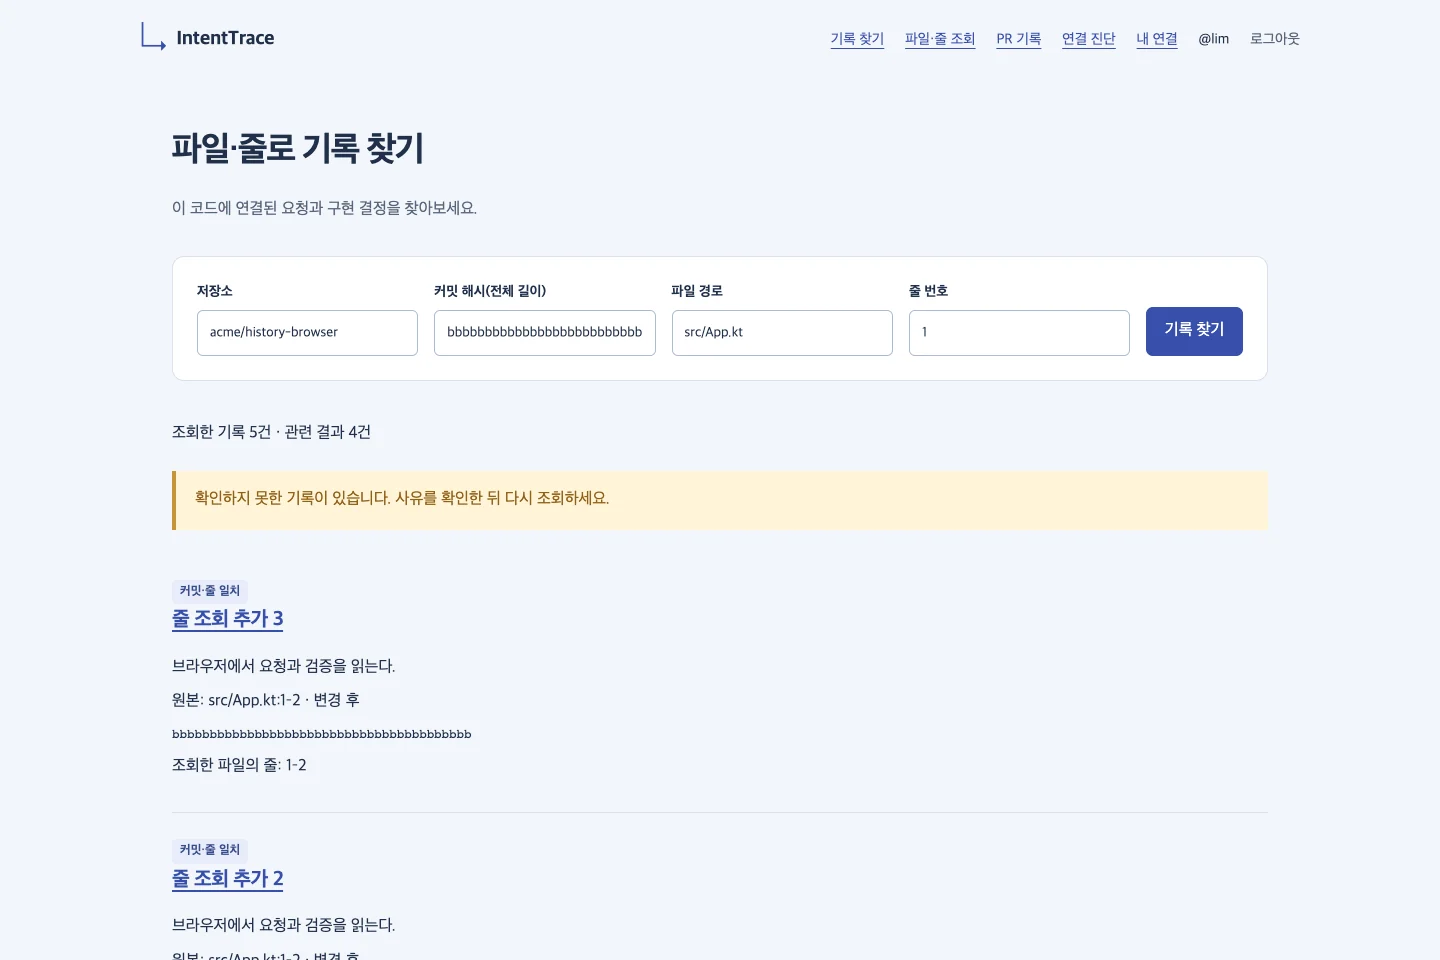
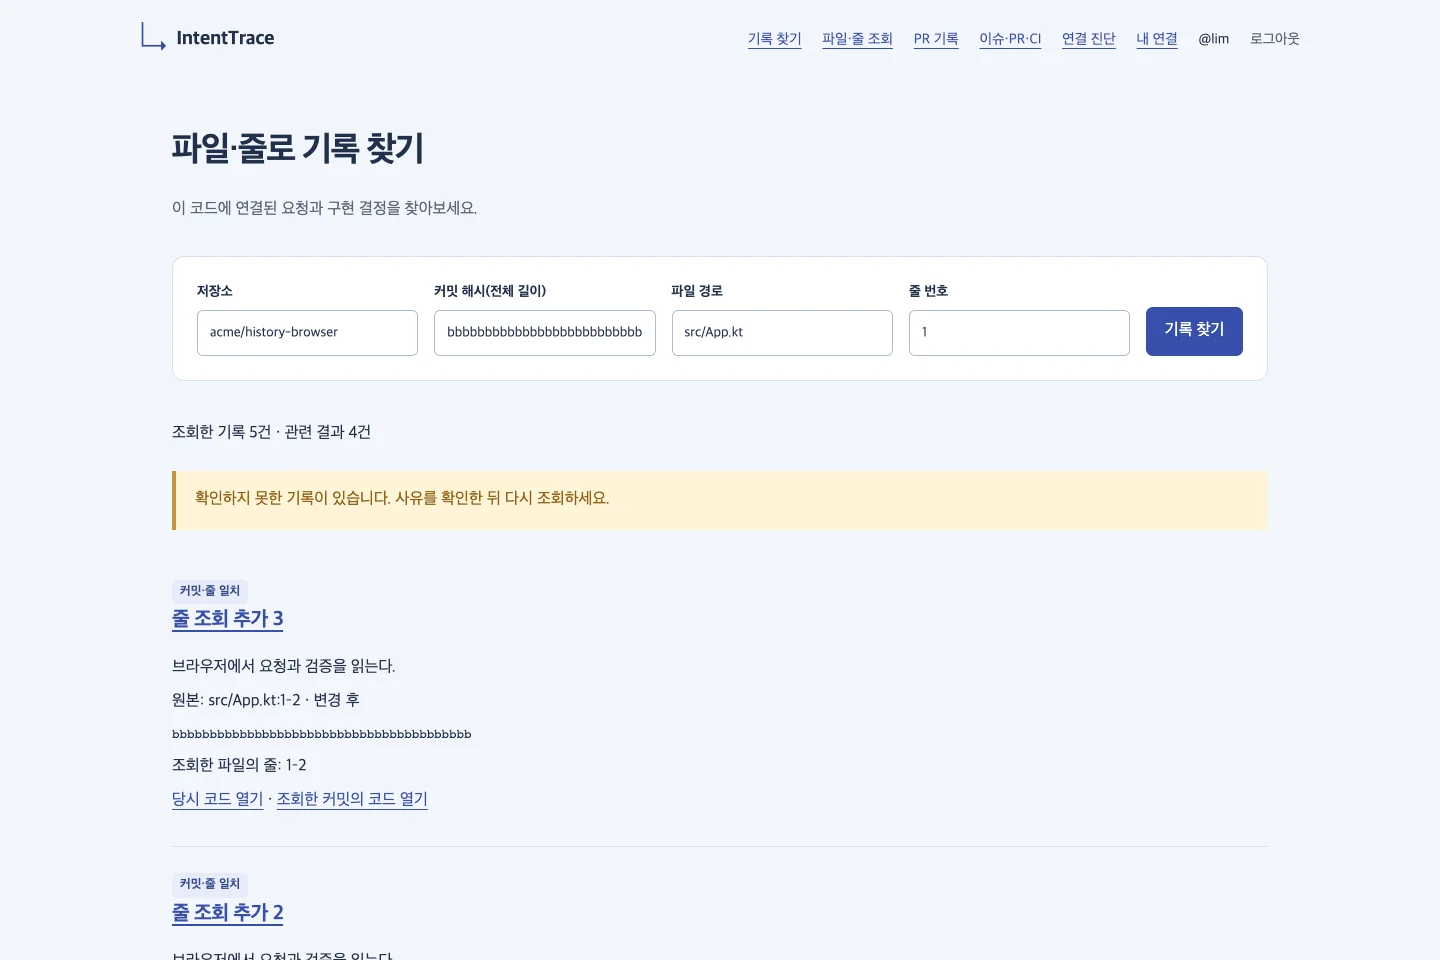
feat: GO와 IntentTrace 화면을 최신으로 바꾸고 IntentTrace 공개 main 4be09d2 반영
- GO 링크 상태 안내(활성 전 시작 시각, 다시 열기)와 IntentTrace 화면 3장 교체
- IntentTrace PR #29 병합(Thymeleaf 전환)과 main CI 통과 반영

Changed region(s): [[0.0938, 0.875, 0.2812, 1.0], [0.5312, 0.0312, 0.7188, 0.0625], [0.125, 0.8125, 0.3125, 0.8438]]

diff --git a/src/data/projects.js b/src/data/projects.js
@@ -275,9 +275,9 @@ const projects = [
                     {
                         id: "link-error",
                         src: "baton-go-link-error.webp",
-                        label: "링크 오류 안내",
-                        caption: "존재하지 않거나 아직 사용할 수 없는 링크, 만료와 폐기 안내",
-                        alt: "BATON GO가 사용할 수 없는 링크 상태를 한글로 안내하는 화면",
+                        label: "링크 상태 안내",
+                        caption: "활성 전 링크의 이용 시작 시각과 다시 열기 링크",
+                        alt: "BATON GO가 아직 사용할 수 없는 링크에 이용 시작 시각과 다시 열기 링크를 보여 주는 화면",
                         width: 1440,
                         height: 900,
                     },
@@ -1789,7 +1789,7 @@ const projects = [
             "사용자 요청, 변경 근거와 검증 결과를 코드 위치에 기록하고 작성자가 확인한 기록을 팀에 공개합니다.",
         status: {
             label: "그 밖의 구현",
-            text: "공개 main f24eabf에 Zed 편집기 hover와 PR 코드 줄 주석 게시를 추가했습니다. 실제 Zed 앱과 GitHub 게시는 확인하지 않았습니다.",
+            text: "공개 main 4be09d2에 Zed 편집기 hover와 PR 코드 줄 주석 게시를 추가하고, 웹 화면을 Thymeleaf로 바꿨습니다. 실제 Zed 앱과 GitHub 게시는 확인하지 않았습니다.",
         },
         visualCaption:
             "원문 대화와 숨은 추론은 저장하지 않습니다. 작성자 확인 뒤 코드가 바뀌면 공개를 차단합니다.",
@@ -1886,6 +1886,7 @@ const projects = [
             "Spring Boot 4.1.1",
             "Spring AI MCP 2.0.1",
             "Spring MVC",
+            "Thymeleaf",
             "Spring JDBC",
             "Flyway",
             "PostgreSQL 17 / H2",
@@ -1900,9 +1901,9 @@ const projects = [
                 note: "서버, Codex 연동, IntelliJ 플러그인과 운영 문서",
             },
             {
-                label: "PR #26 검증 결과",
-                href: "https://github.com/ljkhyeong/intent-trace/actions/runs/37279250421",
-                note: "공개 main f24eabf와 같은 코드의 서버, IntelliJ, Zed 검증",
+                label: "공개 main 검증 결과",
+                href: "https://github.com/ljkhyeong/intent-trace/actions/runs/37591867661",
+                note: "공개 main 4be09d2의 서버, IntelliJ, Zed 검증",
             },
             {
                 label: "v0.7.0 릴리스",
@@ -1916,8 +1917,8 @@ const projects = [
                 id: "evidence",
                 src: "intent-trace-evidence.webp",
                 label: "GitHub 코드와 비교",
-                caption: "저장소 스냅샷과 관련 코드의 해시 일치 여부를 확인하는 웹 화면",
-                alt: "저장소 스냅샷과 관련 코드의 해시 일치 여부를 확인하는 웹 화면",
+                caption: "저장소 스냅샷과 관련 코드 줄의 해시를 GitHub 커밋과 비교한 결과",
+                alt: "스냅샷 해시와 관련 코드 줄 해시가 모두 일치한다고 표시한 비교 화면",
                 width: 1440,
                 height: 960,
             },
@@ -1932,7 +1933,7 @@ const projects = [
             },
         ],
         screenshotNote:
-            "서버 통합 테스트가 생성한 HTML을 2026년 9월 8일 로컬 Chrome에서 다시 확인했습니다. 저장소, 커밋, 기록은 테스트 데이터이며 실제 GitHub 게시 결과가 아닙니다.",
+            "공개 main의 서버 통합 테스트가 생성한 HTML을 2026년 10월 9일 로컬 Chrome에서 촬영했습니다. 저장소, 커밋, 기록은 테스트 데이터이며 실제 GitHub 게시 결과가 아닙니다.",
     },
     {
         ...projectSummariesById.warrant,

diff --git a/src/data/caseHighlights.js b/src/data/caseHighlights.js
@@ -26,7 +26,7 @@ export const caseResults = {
     "hope-commit":
         "커밋 AI 리뷰 HTML(Commit Diff)을 구현해 Hope Commit v5.0.2(main 9d8392d)로 공개 릴리스했고, GitHub Actions에서 자동화 테스트 343개가 통과했습니다.",
     "intent-trace":
-        "서버, 웹 조회와 IntelliJ, Zed 연동을 구현했고 공개 main의 b7ac92a 로컬 검증에서 서버 테스트 264개가 통과했습니다. v0.7.0 실행 JAR과 IntelliJ 플러그인을 공개 릴리스했습니다. 실제 PR Check Run 게시와 서버 운영 배포는 아직 확인하지 않았습니다.",
+        "서버, 웹 조회와 IntelliJ, Zed 연동을 구현했습니다. 공개 main 4be09d2의 GitHub Actions 검증과 서버 테스트 264개가 통과했습니다. v0.7.0 실행 JAR과 IntelliJ 플러그인을 공개 릴리스했습니다. 실제 PR Check Run 게시와 서버 운영 배포는 아직 확인하지 않았습니다.",
     warrant: `기관별 요청 변환과 Spring Batch를 구현했습니다. 망 분리 구간 연계와, PDF 완료 응답이 요청 상태 저장보다 먼저 도착하는 경우를 시나리오로 확인했습니다. 성능 테스트 환경에서는 ${warrantPerformanceSummary}`,
     defense:
         "수용자 자료 검증 배치, CSRF 토큰 검증, Presigned URL 기반 대용량 파일 업로드를 폐쇄망에서 확인했습니다. 운영 중 멈춘 배치는 중단 단계를 찾은 뒤 해당 기관 배치만 다시 실행했습니다.",

diff --git a/src/data/projectSummaries.js b/src/data/projectSummaries.js
@@ -235,8 +235,8 @@ export const projectSummaries = [
             id: "history",
             src: "intent-trace-history.webp",
             label: "파일과 줄로 기록 찾기",
-            caption: "파일 경로와 코드 줄로 관련 변경 기록을 찾는 웹 화면",
-            alt: "파일 경로와 코드 줄로 관련 변경 기록을 찾는 웹 화면",
+            caption: "파일 경로와 코드 줄로 관련 변경 기록을 찾고 기록 당시 코드를 여는 웹 화면",
+            alt: "파일 경로와 줄 번호로 찾은 변경 기록 목록과 GitHub 코드 링크가 보이는 화면",
             note: "테스트 데이터로 찍은 화면",
             width: 1440,
             height: 960,

diff --git a/src/component/project/ProjectCaseStudy.test.jsx b/src/component/project/ProjectCaseStudy.test.jsx
@@ -463,7 +463,7 @@ test("IntentTrace는 저장하는 근거와 공개 수명주기를 변경 기록
         }),
     ).toBeInTheDocument()
     expect(screen.getByRole("region", { name: "확인한 범위" })).toHaveTextContent(
-        /v0\.7\.0.*PR Check Run 게시와 서버 운영 배포는 아직 확인하지 않았습니다.*공개 main f24eabf.*Zed 편집기 hover/,
+        /v0\.7\.0.*PR Check Run 게시와 서버 운영 배포는 아직 확인하지 않았습니다.*공개 main 4be09d2.*Zed 편집기 hover/,
     )
     expect(
         screen.getByRole("link", { name: "IntentTrace GitHub 저장소 새 창에서 보기" }),

diff --git a/src/data/projects.test.jsx b/src/data/projects.test.jsx
@@ -91,7 +91,7 @@ describe("project summary data", () => {
 
         expect(intentTrace.category).toBe("오픈소스 및 개발 도구")
         expect(caseResults["intent-trace"]).toContain("v0.7.0")
-        expect(intentTrace.status.text).toContain("공개 main f24eabf")
+        expect(intentTrace.status.text).toContain("공개 main 4be09d2")
         expect(intentTrace.architecture.tradeoff).toContain("GitHub 원본 코드 비교는 별도 조회")
         expect(intentTrace.documents).toEqual(
             expect.arrayContaining([

diff --git a/src/data/knowledgeCorpus.test.js b/src/data/knowledgeCorpus.test.js
@@ -118,7 +118,7 @@ describe("공개 지식 문서 목록", () => {
         )
 
         expect(intentTraceOverview.content).toContain("변경 근거와 검증 결과를 코드 위치에")
-        expect(intentTraceOverview.content).toContain("공개 main f24eabf에 Zed 편집기 hover")
+        expect(intentTraceOverview.content).toContain("공개 main 4be09d2에 Zed 편집기 hover")
 
         const youthPolicyOverview = corpus.documents.find(
             (document) =>

diff --git a/docs/project-progress-2026-10-07.md b/docs/project-progress-2026-10-07.md
@@ -57,3 +57,17 @@ BATON 전체 문서 수는 서비스별 합계로 다시 셌다(PRD 54, ADR 94, 
 -   청년정책메이트 화면의 정책 데이터는 2026-09-05 수집한 공개 데이터이며 D-day는 촬영일 기준이다.
 
 포트폴리오의 테스트, 산출물 생성과 최종 빌드 결과는 `output/validation/last-run.md`에 기록한다.
+
+## 추가 확인 — 2026-10-09
+
+-   원본 저장소 11개를 다시 대조했다. IntentTrace만 PR #29(`4be09d2`, 웹 화면 Thymeleaf 전환, 인증 경로 우회 차단, 표준 API 정리)가 병합됐고 나머지는 변경이 없다.
+-   IntentTrace 공개 main `4be09d2`의 push CI(37591867661)가 통과해 `CI 통과`와 링크를 이 실행으로 바꿨다. 서버 테스트 264개는 PR #29 본문의 검증 기록이다.
+-   지난번에 남겨 둔 화면을 다시 찍었다.
+
+| 대상        | 교체 화면                                        | 촬영 기준                                                                                                     |
+| ----------- | ------------------------------------------------ | ------------------------------------------------------------------------------------------------------------- |
+| GO          | 링크 상태 안내 1장(활성 전, 다시 열기)           | `f7459e1` 사본에서 실제 핸들러를 MockMvc로 실행해 받은 응답 HTML, 1440×900. 시작 시각과 요청 번호는 예시 값   |
+| IntentTrace | 기록 찾기, GitHub 코드 비교, 이슈·PR·CI 조회 3장 | `f24eabf` 사본의 서버 통합 테스트가 만든 HTML, 1440×960. `4be09d2`로 만든 HTML과 문구와 CSS가 같음을 대조했다 |
+
+-   Hope Commit은 `v5.0.2` 이후 원본 변경이 없어 기존 화면을 유지했다.
+-   화면 캡처 주소에 파일 내용 해시를 붙였다(`?v=`). 파일 이름이 같아 브라우저 캐시가 바뀐 캡처를 예전 것으로 보여 주던 문제를 막는다.
